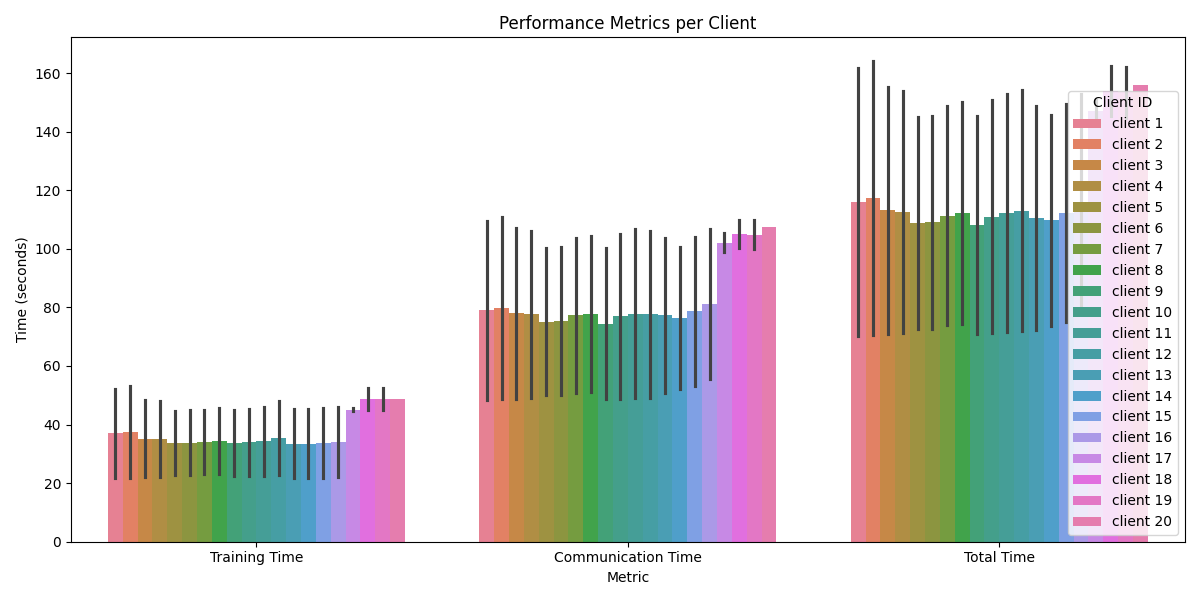
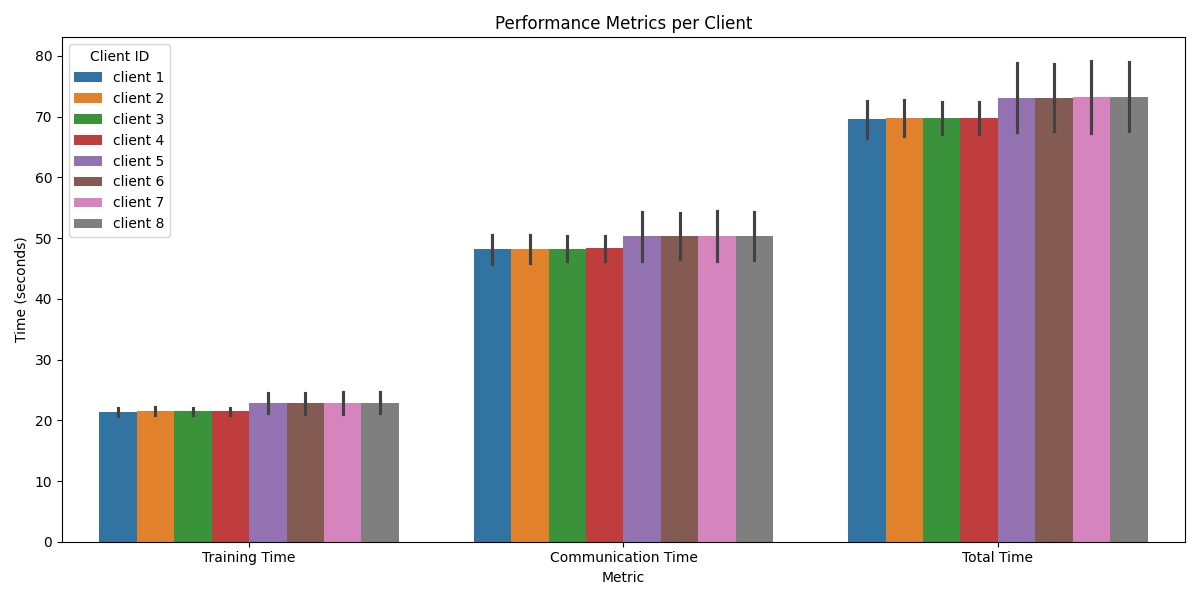
Fix bugs

diff --git a/Federated Learning using Architectural Patterns/Federated Learning S Local/client.py b/Federated Learning using Architectural Patterns/Federated Learning S Local/client.py
@@ -34,7 +34,7 @@ class FlowerClient(NumPyClient):
     def __init__(self, cid):
         self.cid = cid
         # Register the client with the registry
-        self.resources = {"cpu": "2 cores", "ram": "4GB"}  # Example resource information
+        self.resources = {}  # Example resource information
         client_registry.register_client(self.cid, self.resources)
 
     def fit(self, parameters, config):

diff --git a/Federated Learning without using Architectural Patterns/Federated Learning S Local/server.py b/Federated Learning without using Architectural Patterns/Federated Learning S Local/server.py
@@ -17,7 +17,7 @@ matplotlib.use('Agg')
 
 # Global variable to keep track of the current round
 currentRnd = 0
-num_rounds = 10  # Total number of rounds
+num_rounds = 2  # Total number of rounds
 
 # Get the absolute path of the current directory
 current_dir = os.path.abspath(os.path.dirname(__file__))

diff --git a/README.md b/README.md
@@ -14,11 +14,13 @@ This is the repository for testing the performance of a Federated Learning syste
    
 # Functionalities
 
+The Federated Learning system is supported by [Flower](https://github.com/adap/flower) framework. 
+
 This repository is divided in two main folders:
 
-- __Federated Learning without using Architectural Patterns/__:
+- __Federated Learning without using Architectural Patterns/__
 
-- __Federated Learning using Architectural Patterns/__: Using clients architectural patterns.
+- __Federated Learning using Architectural Patterns/__: Using the Client Manager Architectural Design Patterns.
 
 
 # How To Run:
@@ -43,7 +45,7 @@ In the Federated Learning S with Docker folder, enter the following command:
 docker-compose up --scale client=10
 ```
 
-Change the number of clients by modifying the number of client
+Change the number of clients by modifying the value of the "client" variable.
 
 
 # References
